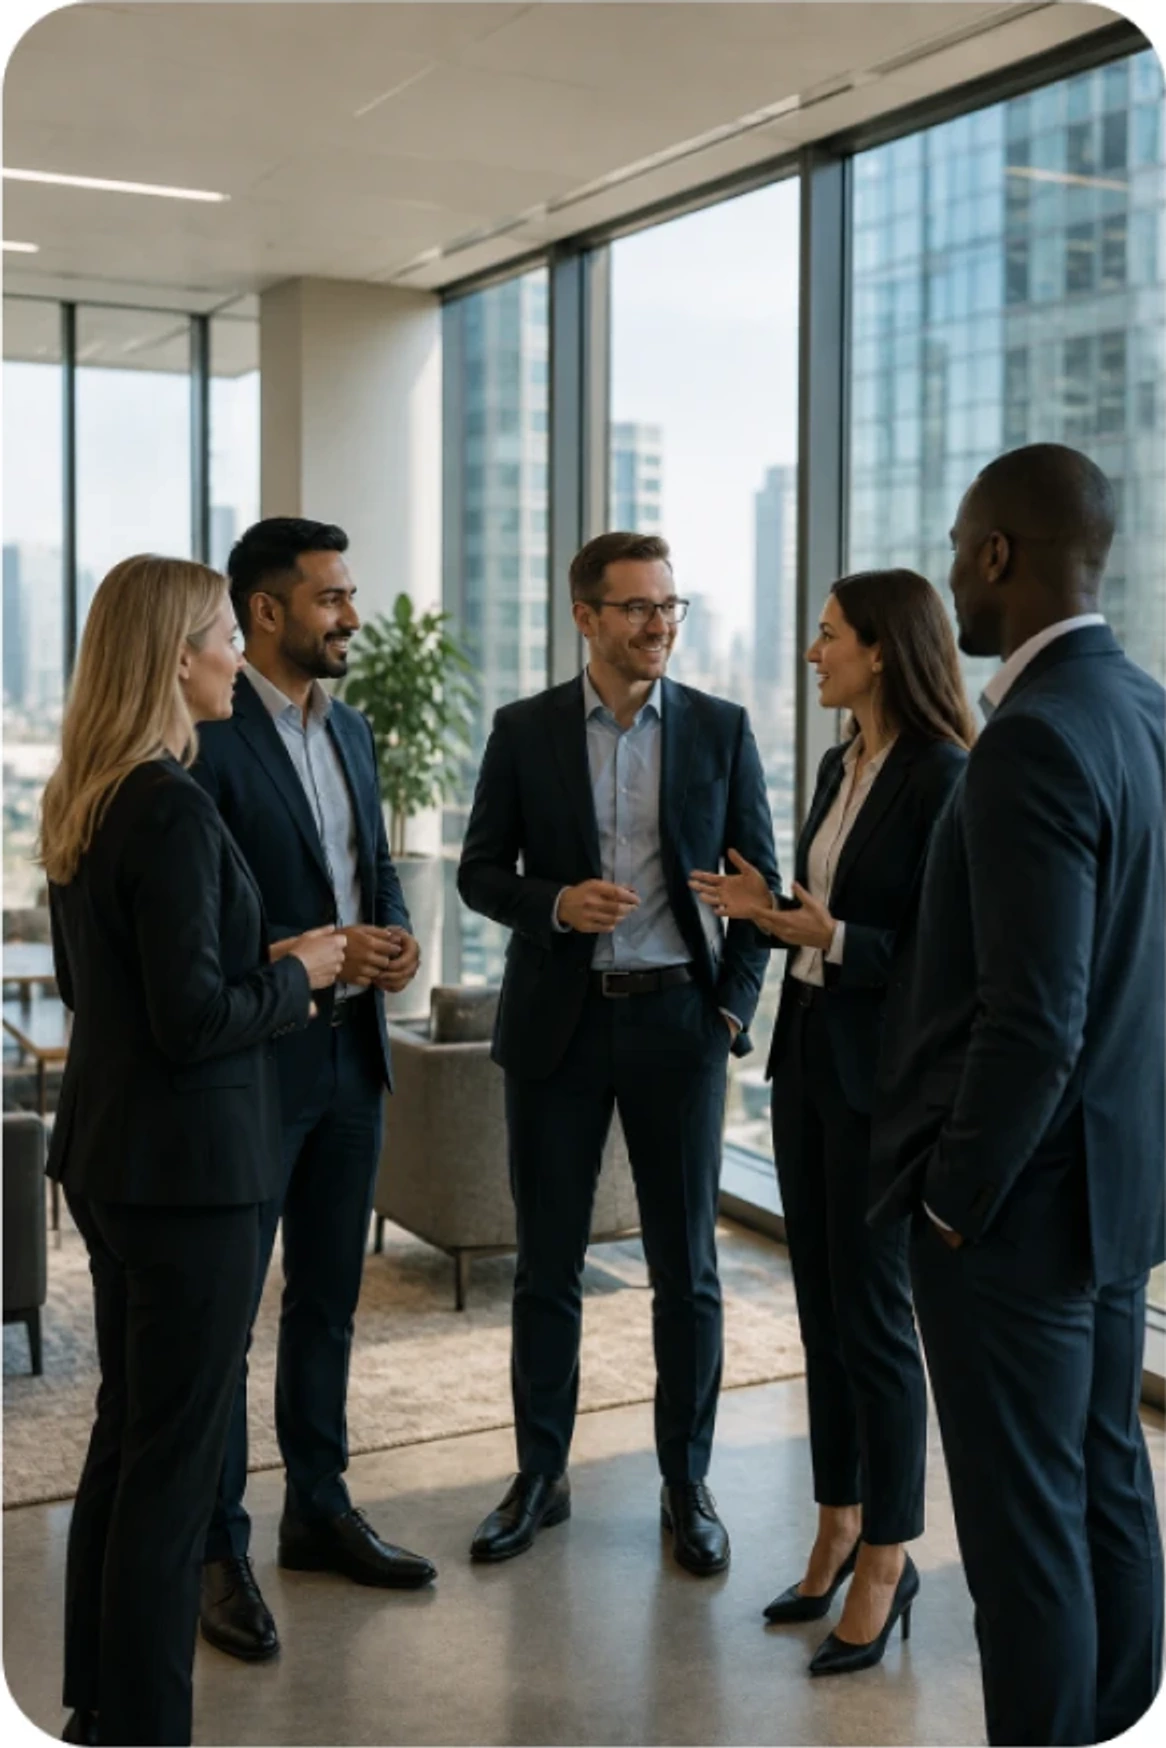
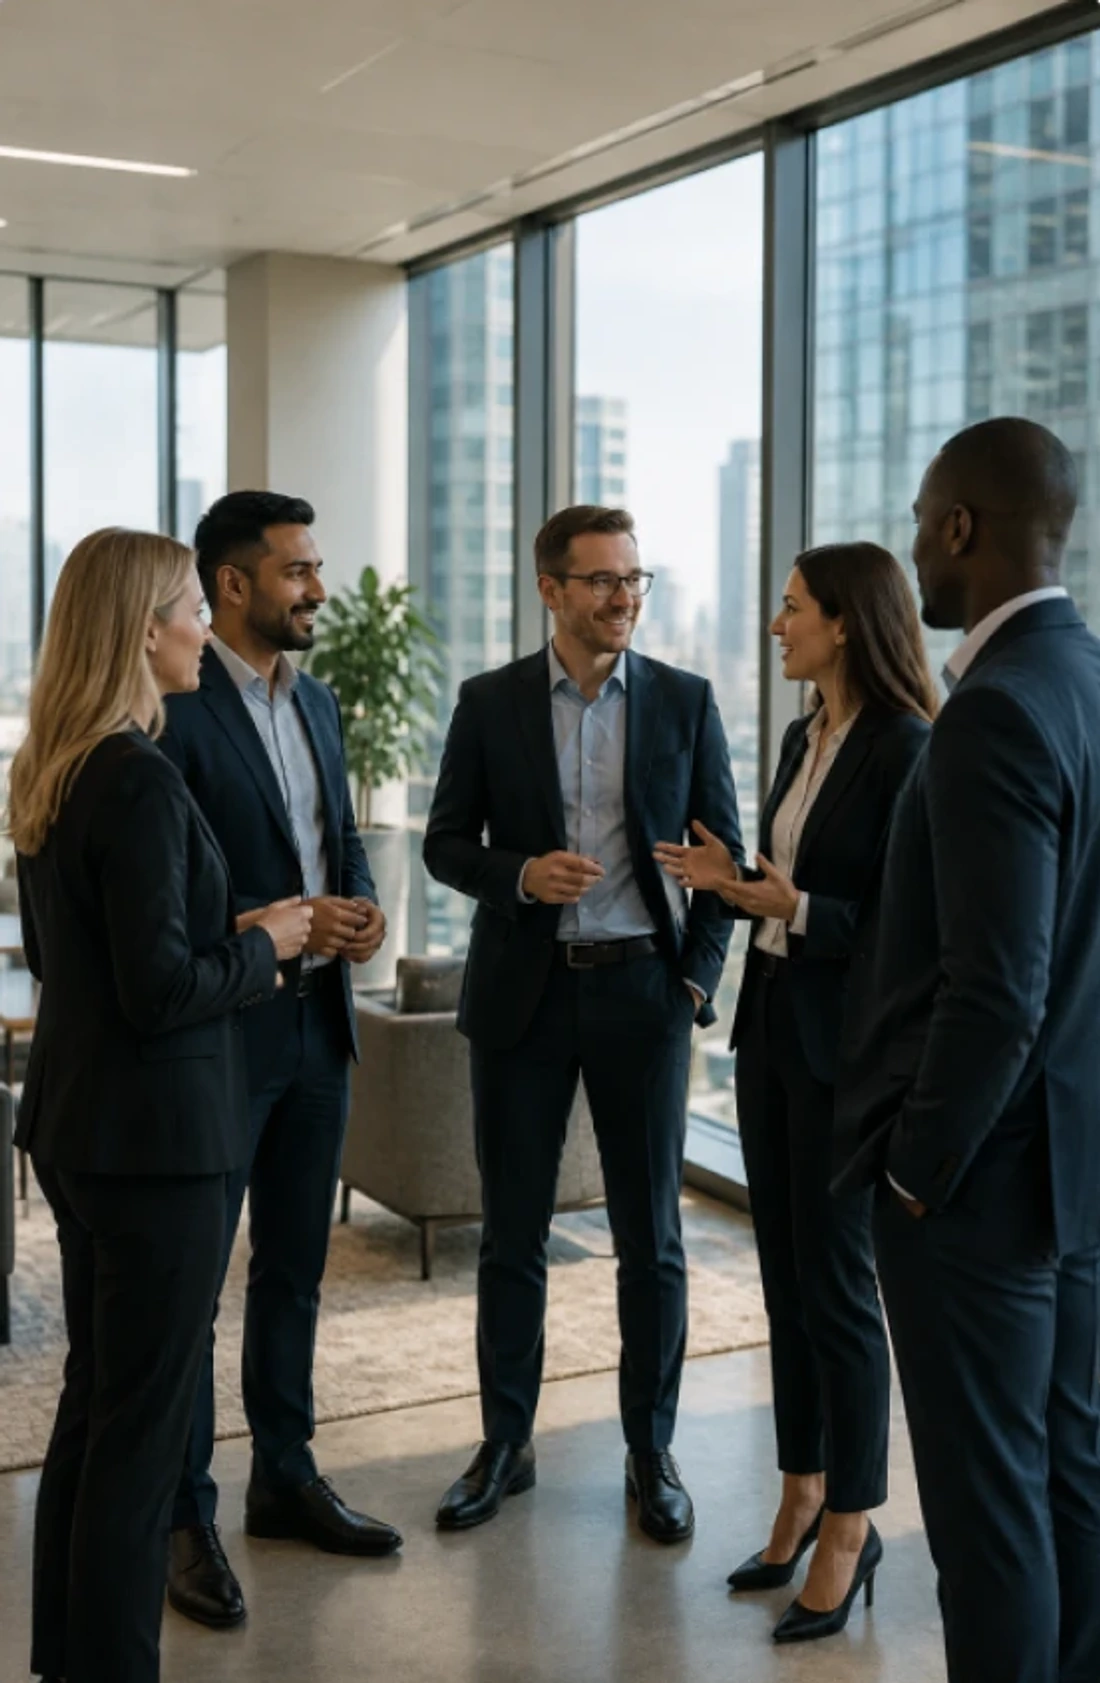
Open a note when it is pressed, and give the photograph clean corners
The Notes button still did nothing. The kind was spelled "note" in the
one place that asked for the file and "notes" in the four that named it,
so the request was refused as an unknown kind - the same fault as on the
server, on the other side of the same conversation. It is a constant
exported from the service now, so neither side can spell it its own way
again.

The anchor is put in the document before it is pressed, too. A detached
one is ignored by some browsers, and it has to work in whichever the
student happens to be using.

The Learning Solutions photograph arrived with rounded corners drawn
into it and a white frame outside them. Trimming the frame left the arc,
so the picture curved one way and the box clipping it curved another -
which is what an almost-round corner is. Measured at twenty-one pixels
and cropped past it, so the file is a plain rectangle and the rounding
is the stylesheet's alone.

diff --git a/src/features/inlearn/pages/dashboard/sections/MediaDialog.jsx b/src/features/inlearn/pages/dashboard/sections/MediaDialog.jsx
@@ -2,7 +2,7 @@ import {useEffect, useRef, useState} from "react";
 import {createPortal} from "react-dom";
 
 import {CloseIcon, DocumentIcon} from "./courseIcons.jsx";
-import {openMedia} from "../../../services/learning.js";
+import {MEDIA, openMedia} from "../../../services/learning.js";
 
 /* Watching, listening or reading one session, over the page.
  *
@@ -43,7 +43,7 @@ function SkipIcon({back = false}) {
 function MediaDialog({courseId, session, kind, onClose}) {
   const [source, setSource] = useState("");
   const [problem, setProblem] = useState("");
-  const [isLoading, setIsLoading] = useState(kind !== "notes");
+  const [isLoading, setIsLoading] = useState(kind !== MEDIA.notes);
   /* Nothing here is reset on the way in, because nothing needs to be: this
      dialog is mounted for one session and one kind and thrown away when it
      closes, so every visit starts from these values already. */
@@ -52,7 +52,7 @@ function MediaDialog({courseId, session, kind, onClose}) {
   const layerRef = useRef(null);
   const closeTimer = useRef(0);
   const onCloseRef = useRef(onClose);
-  const isNotes = kind === "notes";
+  const isNotes = kind === MEDIA.notes;
 
   useEffect(() => {
     onCloseRef.current = onClose;
@@ -120,12 +120,23 @@ function MediaDialog({courseId, session, kind, onClose}) {
   const openNote = async (file) => {
     setProblem("");
     try {
-      const url = await openMedia(courseId, session.id, "note", file.id);
+      const url = await openMedia(courseId, session.id, MEDIA.notes, file.id);
+
+      /* Put in the document before it is pressed. A detached anchor is
+         ignored by some browsers, and this one has to survive whichever the
+         student happens to be using; it is taken out again straight after so
+         nothing is left behind.
+
+         A new tab rather than a download, because the address is a ticket good
+         for two minutes and a tab opens on it immediately - and because a PDF
+         is something people read where they are rather than file away. */
       const link = document.createElement("a");
       link.href = url;
       link.target = "_blank";
       link.rel = "noopener noreferrer";
+      document.body.appendChild(link);
       link.click();
+      link.remove();
     } catch (error) {
       setProblem(error.message);
     }
@@ -267,7 +278,7 @@ function MediaDialog({courseId, session, kind, onClose}) {
             </>
           ) : null}
 
-          {!isLoading && kind === "notes" ? (
+          {!isLoading && isNotes ? (
             session.media.notes?.length ? (
               <ul className="inlearn-media-files">
                 {session.media.notes.map((file) => (

diff --git a/src/features/inlearn/services/learning.js b/src/features/inlearn/services/learning.js
@@ -51,6 +51,19 @@ export function setSessionComplete(courseId, sessionId, isComplete) {
 /* The address a player is pointed at. Fetched at the moment of opening rather
    than kept with the session, so a ticket is never older than the click that
    asked for it. */
+/* The names the server answers to.
+ *
+ * Exported rather than typed at each call site. This one was written as "note"
+ * in one place and "notes" in four others, on both sides of the request, and
+ * every press of the Notes button was refused as an unknown kind - a fault
+ * that cost an afternoon and looked like a broken upload. A name shared
+ * between two programs is worth one constant. */
+export const MEDIA = {
+  video: "video",
+  audio: "audio",
+  notes: "notes",
+};
+
 export async function openMedia(courseId, sessionId, kind, fileId) {
   const {ticket} = await post("/api/inlearn/media-ticket", {courseId, sessionId, kind, fileId});
   return `${API_URL}/api/inlearn/media/${ticket}`;

diff --git a/src/features/inlearn/pages/dashboard/sections/CoursesSection.jsx b/src/features/inlearn/pages/dashboard/sections/CoursesSection.jsx
@@ -13,7 +13,7 @@ import {
   TickIcon,
 } from "./courseIcons.jsx";
 import {MODES} from "./courseModes.js";
-import {fetchMyCourses, setSessionComplete} from "../../../services/learning.js";
+import {MEDIA, fetchMyCourses, setSessionComplete} from "../../../services/learning.js";
 import {useInlearnCatalogue} from "../../../useInlearnCatalogue.js";
 import {getInlearnCourses} from "../../../inlearnContent.js";
 
@@ -162,7 +162,7 @@ function SessionRow({courseId, mode, session, onOpen, onToggle, isBusy}) {
           <button
             type="button"
             className="inlearn-course-media-button"
-            onClick={() => onOpen(session, "notes")}
+            onClick={() => onOpen(session, MEDIA.notes)}
             aria-label={`Open the notes for ${session.title}`}
             title="Notes"
           >

diff --git a/src/styles/inlearn/10-solutions.css b/src/styles/inlearn/10-solutions.css
@@ -121,9 +121,15 @@
   background: #e9ecec;
 }
 
+/* The radius is repeated on the picture as well as on the box that clips it.
+   A rounded box with overflow hidden is meant to be enough, and mostly is - but
+   at some zoom levels a hairline of the image survives past the curve, and a
+   corner that is round except for one bright pixel reads as a mistake. Saying
+   it twice costs nothing. */
 .inlearn-solutions-media img {
   width: 100%;
   height: 100%;
+  border-radius: inherit;
   object-fit: cover;
 }
 
